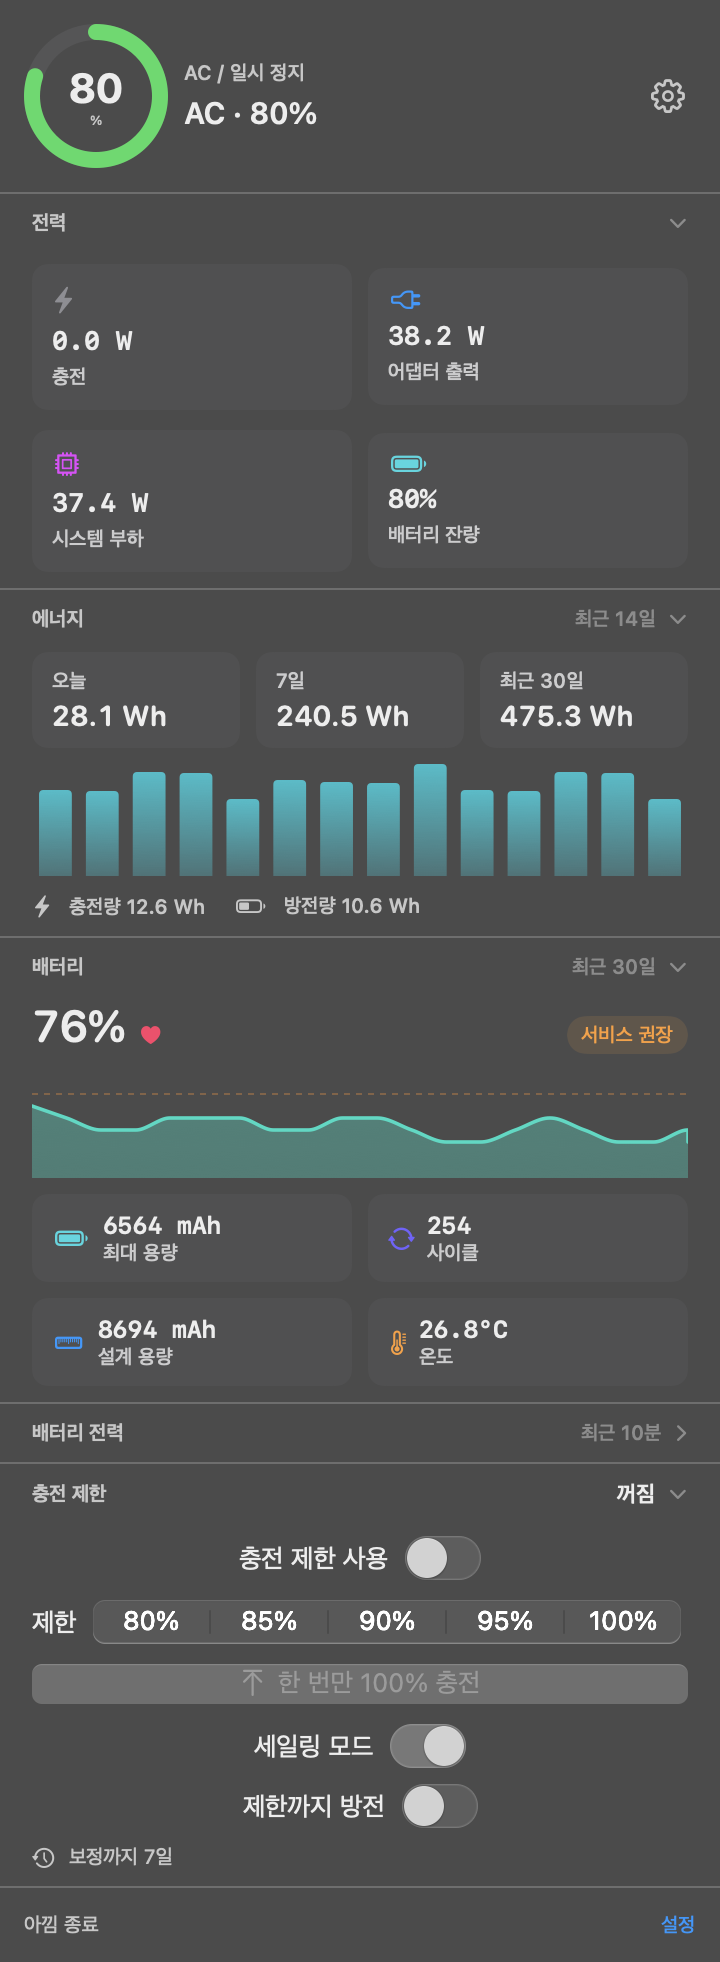
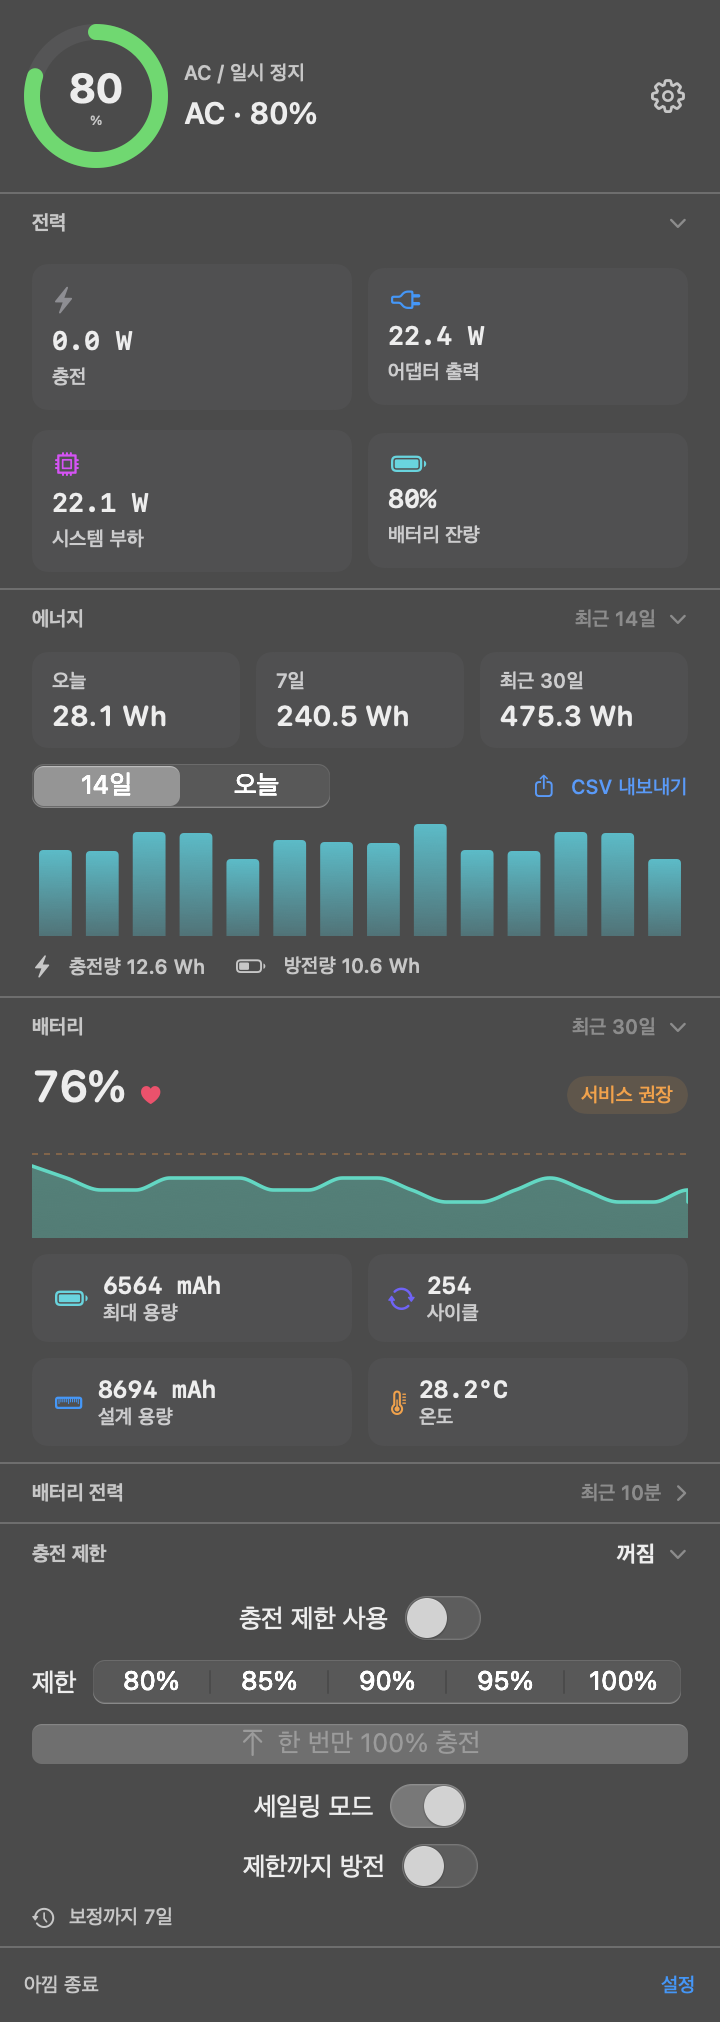
Add hourly energy view and CSV export; v1.2.0

diff --git a/Sources/Akkim/MenuBarPanel.swift b/Sources/Akkim/MenuBarPanel.swift
@@ -4,6 +4,7 @@
 
 import SwiftUI
 import AppKit
+import UniformTypeIdentifiers
 
 struct MenuBarPanel: View {
     @EnvironmentObject private var stream: SampleStream
@@ -221,9 +222,35 @@ struct MenuBarPanel: View {
                                    value: energyUsage.total(days: 30, \.wallWh))
                     }
 
-                    EnergyUsageChart(days: energyUsage.series(days: 14))
-                        .frame(height: 56)
-                        .clipped()
+                    HStack(spacing: 8) {
+                        Picker("", selection: $settings.energyChartMode) {
+                            Text(L10n.t(.last14DaysShort)).tag(AppSettings.EnergyChartMode.days)
+                            Text(L10n.t(.today)).tag(AppSettings.EnergyChartMode.hours)
+                        }
+                        .pickerStyle(.segmented)
+                        .labelsHidden()
+                        .frame(width: 150)
+
+                        Spacer()
+
+                        Button {
+                            exportEnergyCSV()
+                        } label: {
+                            Label(L10n.t(.exportCSV), systemImage: "square.and.arrow.up")
+                                .font(.caption2)
+                        }
+                        .buttonStyle(.link)
+                    }
+
+                    Group {
+                        if settings.energyChartMode == .days {
+                            EnergyUsageChart(days: energyUsage.series(days: 14))
+                        } else {
+                            HourlyEnergyChart(values: energyUsage.hourlyToday())
+                        }
+                    }
+                    .frame(height: 56)
+                    .clipped()
 
                     HStack(spacing: 14) {
                         Label("\(L10n.t(.charged)) \(energyText(energyUsage.today(\.chargedWh)))",
@@ -254,6 +281,15 @@ struct MenuBarPanel: View {
         .padding(.horizontal, 10)
         .padding(.vertical, 8)
         .background(RoundedRectangle(cornerRadius: 8).fill(Color.gray.opacity(0.08)))
+    }
+
+    private func exportEnergyCSV() {
+        let panel = NSSavePanel()
+        panel.allowedContentTypes = [.commaSeparatedText]
+        panel.canCreateDirectories = true
+        panel.nameFieldStringValue = "akkim-energy-\(DailyEnergy.formatter.string(from: Date())).csv"
+        guard panel.runModal() == .OK, let url = panel.url else { return }
+        try? energyUsage.csvString().write(to: url, atomically: true, encoding: .utf8)
     }
 
     private func energyText(_ wh: Double) -> String {

diff --git a/Sources/Akkim/AppSettings.swift b/Sources/Akkim/AppSettings.swift
@@ -78,10 +78,19 @@ final class AppSettings: ObservableObject {
     @Published var heatProtectionC: Int = 0
     @Published var menuBarDisplay: MenuBarDisplay = .power
     @Published var menuBarIconStyle: MenuBarIconStyle = .battery
-    /// Panel sections that are shown at all.
+    /// Which energy chart the panel shows.
+enum EnergyChartMode: String, CaseIterable, Identifiable {
+    case days
+    case hours
+
+    var id: String { rawValue }
+}
+
+/// Panel sections that are shown at all.
     @Published var visibleSections: Set<PanelSection> = Set(PanelSection.allCases)
     /// Panel sections the user has collapsed with the header chevron.
     @Published var collapsedSections: Set<PanelSection> = []
+    @Published var energyChartMode: EnergyChartMode = .days
 
     private let defaults = UserDefaults.standard
 
@@ -104,6 +113,7 @@ final class AppSettings: ObservableObject {
             "menuBarIconStyle": MenuBarIconStyle.battery.rawValue,
             "panelVisibleSections": PanelSection.allCases.map(\.rawValue),
             "panelCollapsedSections": [String](),
+            "energyChartMode": EnergyChartMode.days.rawValue,
         ] as [String: Any])
     }
 
@@ -131,6 +141,10 @@ final class AppSettings: ObservableObject {
         if let raw = defaults.stringArray(forKey: "panelCollapsedSections") {
             collapsedSections = Set(raw.compactMap(PanelSection.init(rawValue:)))
         }
+        if let raw = defaults.string(forKey: "energyChartMode"),
+           let mode = EnergyChartMode(rawValue: raw) {
+            energyChartMode = mode
+        }
         // Sections added in a later version start visible for existing installs.
         if defaults.integer(forKey: "panelSectionsVersion") < 2 {
             visibleSections.insert(.energy)
@@ -152,6 +166,7 @@ final class AppSettings: ObservableObject {
         defaults.set(menuBarIconStyle.rawValue, forKey: "menuBarIconStyle")
         defaults.set(visibleSections.map(\.rawValue), forKey: "panelVisibleSections")
         defaults.set(collapsedSections.map(\.rawValue), forKey: "panelCollapsedSections")
+        defaults.set(energyChartMode.rawValue, forKey: "energyChartMode")
     }
 
     // MARK: Panel sections

diff --git a/Sources/Akkim/EnergyUsageStore.swift b/Sources/Akkim/EnergyUsageStore.swift
@@ -9,6 +9,8 @@ struct DailyEnergy: Codable, Identifiable, Equatable {
     var systemWh: Double = 0
     var chargedWh: Double = 0
     var dischargedWh: Double = 0
+    /// AC energy per hour (0–23) for this day, when known.
+    var hourlyWallWh: [Double]?
 
     var id: String { day }
 
@@ -73,6 +75,12 @@ final class EnergyUsageStore: ObservableObject {
         var bucket = buckets.removeLast()
         if let wall = sample.wallOutputWatts, wall > 0 {
             bucket.wallWh += wall * hours
+            var hourly = bucket.hourlyWallWh ?? Array(repeating: 0, count: 24)
+            let hour = Calendar.current.component(.hour, from: now)
+            if hourly.indices.contains(hour) {
+                hourly[hour] += wall * hours
+            }
+            bucket.hourlyWallWh = hourly
         }
         if let system = sample.systemLoadWatts, system > 0 {
             bucket.systemWh += system * hours
@@ -106,6 +114,24 @@ final class EnergyUsageStore: ObservableObject {
     func today(_ metric: KeyPath<DailyEnergy, Double>) -> Double {
         let today = DailyEnergy.formatter.string(from: Date())
         return buckets.last(where: { $0.day == today })?[keyPath: metric] ?? 0
+    }
+
+    /// AC energy per hour for today (0–23).
+    func hourlyToday() -> [Double] {
+        let today = DailyEnergy.formatter.string(from: Date())
+        return buckets.last(where: { $0.day == today })?.hourlyWallWh
+            ?? Array(repeating: 0, count: 24)
+    }
+
+    /// CSV of every stored day (oldest first).
+    func csvString() -> String {
+        var lines = ["date,wall_wh,system_wh,charged_wh,discharged_wh"]
+        for bucket in buckets.sorted(by: { $0.day < $1.day }) {
+            lines.append(String(format: "%@,%.3f,%.3f,%.3f,%.3f",
+                                bucket.day, bucket.wallWh, bucket.systemWh,
+                                bucket.chargedWh, bucket.dischargedWh))
+        }
+        return lines.joined(separator: "\n") + "\n"
     }
 
     /// The last `days` days, oldest first, including days without samples.

diff --git a/Sources/Akkim/EnergyUsageChart.swift b/Sources/Akkim/EnergyUsageChart.swift
@@ -24,3 +24,30 @@ struct EnergyUsageChart: View {
         .chartYAxis(.hidden)
     }
 }
+
+/// Today's AC energy per hour (0–23).
+struct HourlyEnergyChart: View {
+    let values: [Double]
+
+    var body: some View {
+        Chart {
+            ForEach(Array(values.enumerated()), id: \.offset) { item in
+                BarMark(
+                    x: .value("Hour", item.offset),
+                    y: .value("Energy", item.element)
+                )
+                .foregroundStyle(
+                    LinearGradient(
+                        colors: [Color.teal.opacity(0.85), Color.teal.opacity(0.30)],
+                        startPoint: .top,
+                        endPoint: .bottom
+                    )
+                )
+                .cornerRadius(1.5)
+            }
+        }
+        .chartXScale(domain: -0.5...23.5)
+        .chartXAxis(.hidden)
+        .chartYAxis(.hidden)
+    }
+}

diff --git a/Sources/Akkim/Localization.swift b/Sources/Akkim/Localization.swift
@@ -27,7 +27,9 @@ enum LKey {
     // MARK: Panel — energy
     case energyUsage
     case last14Days
+    case last14DaysShort
     case today
+    case exportCSV
     case last7Days
     case charged
     case discharged
@@ -174,7 +176,9 @@ extension LKey {
         // Panel — energy
         case .energyUsage:              return ("Energy", "에너지")
         case .last14Days:               return ("last 14 days", "최근 14일")
+        case .last14DaysShort:          return ("14 days", "14일")
         case .today:                    return ("Today", "오늘")
+        case .exportCSV:                return ("Export CSV", "CSV 내보내기")
         case .last7Days:                return ("7 days", "7일")
         case .charged:                  return ("Charged", "충전량")
         case .discharged:               return ("Discharged", "방전량")

diff --git a/docs/HANDOVER.md b/docs/HANDOVER.md
@@ -31,7 +31,7 @@ SoC 차트, 사유 기반 알림**을 추가했습니다.
 | 안정성(P0) | JSON 원자적 쓰기, 데몬 last-good-config(약 60초), 권한 775/664 자동 교정, 서명 순서, 알림 게이팅, 구 데몬(`com.batterylimit.helper`) 제거 |
 | UX(P1) | 관리자 인증 비블로킹(`Process.terminationHandler`), 제한 on/off 토글, `shortcuts list` 프로브 캐싱 |
 | 이번 배치 | 헬퍼 상태 파일, 일시정지 사유, 원샷 만충전, 열 보호, 우클릭 빠른 메뉴, 메뉴바 표시 옵션, SoC 스파크라인, 알림 세분화 |
-| 지역화 | `LKey` **116개**, `LKey.text` exhaustive switch |
+| 지역화 | `LKey` **118개**, `LKey.text` exhaustive switch |
 | 패키징 | `scripts/package-app.sh`, ad-hoc 서명, MIT 고지 파일 번들 포함 |
 | CI | `.github/workflows/build.yml` (macos-14, build → package → signature/bundle 검증 → artifact) |
 
@@ -162,7 +162,7 @@ battery-limit/
 │   ├── MenuBarPanel.swift        # 팝오버 UI
 │   ├── SettingsView.swift
 │   ├── HistoryChartView.swift    # 전력 + SoC 차트
-│   ├── Localization.swift        # LKey 116개 (ko/en)
+│   ├── Localization.swift        # LKey 118개 (ko/en)
 │   ├── MenuBarIcon.swift         # 메뉴바 배터리 글리프(AppKit 직접 그리기)
 │   ├── BatteryHealthHistory.swift # 건강도 샘플 저장/추이
 │   ├── BatteryHealthChart.swift   # Swift Charts 건강도 영역 그래프
@@ -381,6 +381,17 @@ battery-limit/
 - **한계**: 앱이 실행 중인 동안만 집계합니다. 앱 종료·잠자기 구간은 제외됩니다.
 - 스크린샷용 `seedPreviewData()`는 `isPreview` 플래그로 **디스크에 저장하지 않습니다**.
 
+### 5.8 시간대별 보기 + CSV 내보내기 (2026-11-03)
+
+- `DailyEnergy.hourlyWallWh`: 오늘의 시간대별(0–23) AC 사용량을 함께 저장합니다
+  (기존 파일에는 없으므로 optional, 새 기록부터 채워짐).
+- 패널 에너지 섹션에 **14일 / 오늘** 세그먼트와 **CSV 내보내기** 링크 추가.
+  - 선택한 보기는 `AppSettings.energyChartMode`에 저장됩니다.
+  - CSV는 `date,wall_wh,system_wh,charged_wh,discharged_wh` 형식으로 저장 패널을 통해 내보냅니다.
+- 참고: Command Line Tools만 있는 환경에서는 SwiftUI `@State` 매크로 플러그인이 없어
+  빌드가 실패할 수 있습니다. 이 프로젝트는 화면 상태도 `AppSettings`(@Published)로
+  관리합니다.
+
 ---
 
 ## 6. 실기기 테스트 체크리스트
@@ -598,7 +609,7 @@ EOF
 ### 9.2 저장소/배포
 
 - [x] 릴리스 워크플로 추가 (`.github/workflows/release.yml`, 태그 `v*` → zip + Release)
-- [x] 앱 버전 `CFBundleShortVersionString 1.1.0` / `CFBundleVersion 4`
+- [x] 앱 버전 `CFBundleShortVersionString 1.2.0` / `CFBundleVersion 5`
 - [x] `git init` 및 `https://github.com/karanglass24-lang/akkim` push
 - [ ] 폴더명 `battery-limit` → `akkim` 정리 (선택)
 - [x] 태그 푸시(`v1.0.0`, `v1.0.1`) 후 Release 자산(`Akkim.zip`, `.sha256`) 확인
@@ -624,7 +635,7 @@ EOF
 
 - **UI 문자열**: 반드시 `Sources/Akkim/Localization.swift`의 `LKey`에 추가.
   `LKey.text`는 exhaustive switch이므로 번역 누락 시 컴파일 실패.
-  현재 116개.
+  현재 118개.
 - **리소스 없음**: `.lproj`를 쓰지 않으므로 `Package.swift`에 `resources:`를 추가하지 말 것.
 - **동시성**: `SMCChargeLimiter`, `ChargeLimitController`, `AppSettings`,
   `StatusBarController`, `SampleStream`은 `@MainActor`.

diff --git a/README.md b/README.md
@@ -49,9 +49,9 @@ The `release` workflow builds on a macOS runner, verifies the bundle, zips it as
   SoC chart overlays the current limit and sailing lower bound
 - **Pause reason** from the helper (`holding at limit`, `too hot`, `calibrating`,
   `topping up`, `discharging`, `adapter not connected`)
-- **Energy use**: daily / 7-day / 30-day AC energy totals (Wh or kWh) with a 14-day
-  bar chart and today's charged / discharged energy. Totals cover time while the app
-  is running (sleep and quit gaps are ignored).
+- **Energy use**: daily / 7-day / 30-day AC energy totals (Wh or kWh), a 14-day bar
+  chart, today's hourly view, today's charged / discharged energy, and CSV export.
+  Totals cover time while the app is running (sleep and quit gaps are ignored).
 
 ### Charging Limit
 - Apple Silicon Mac (M1–M4), macOS 13+
